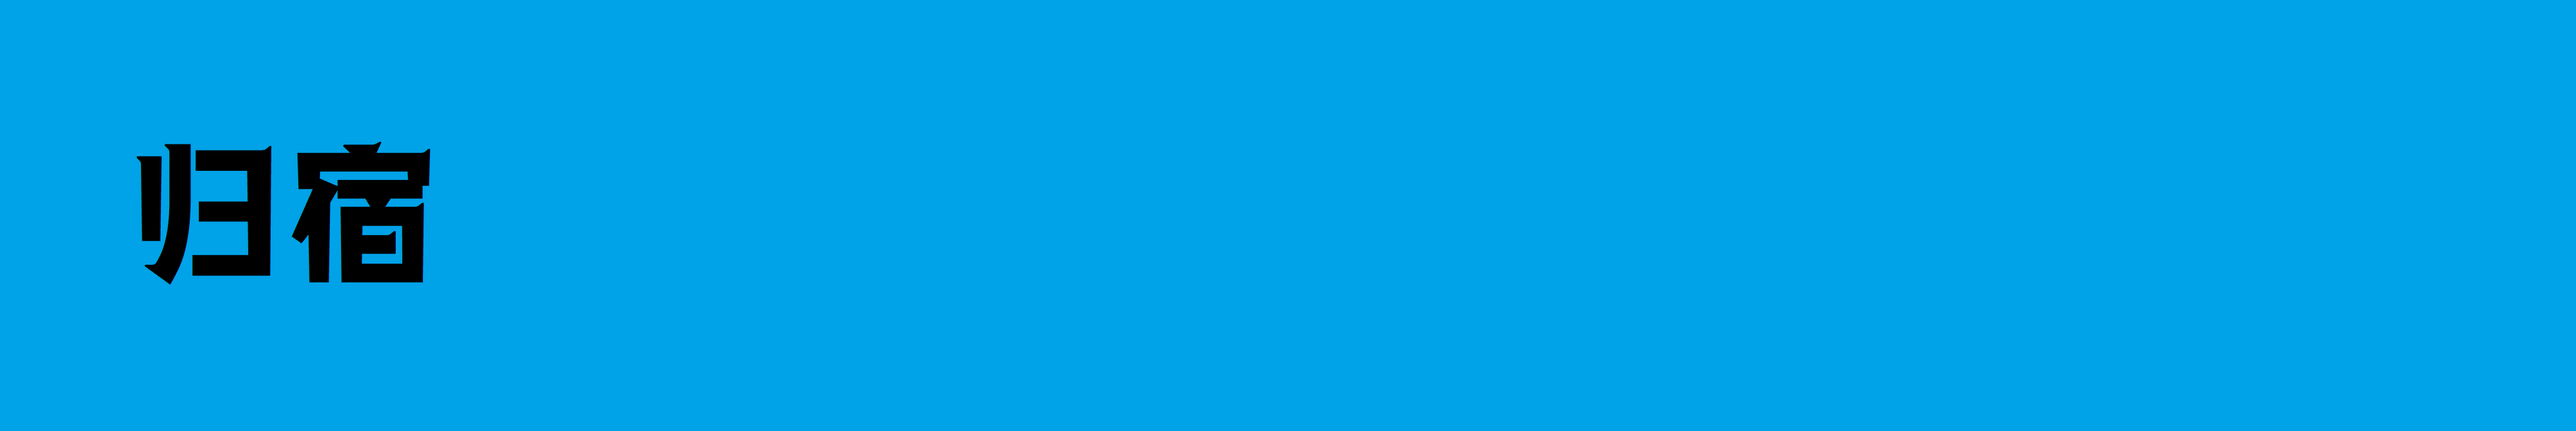
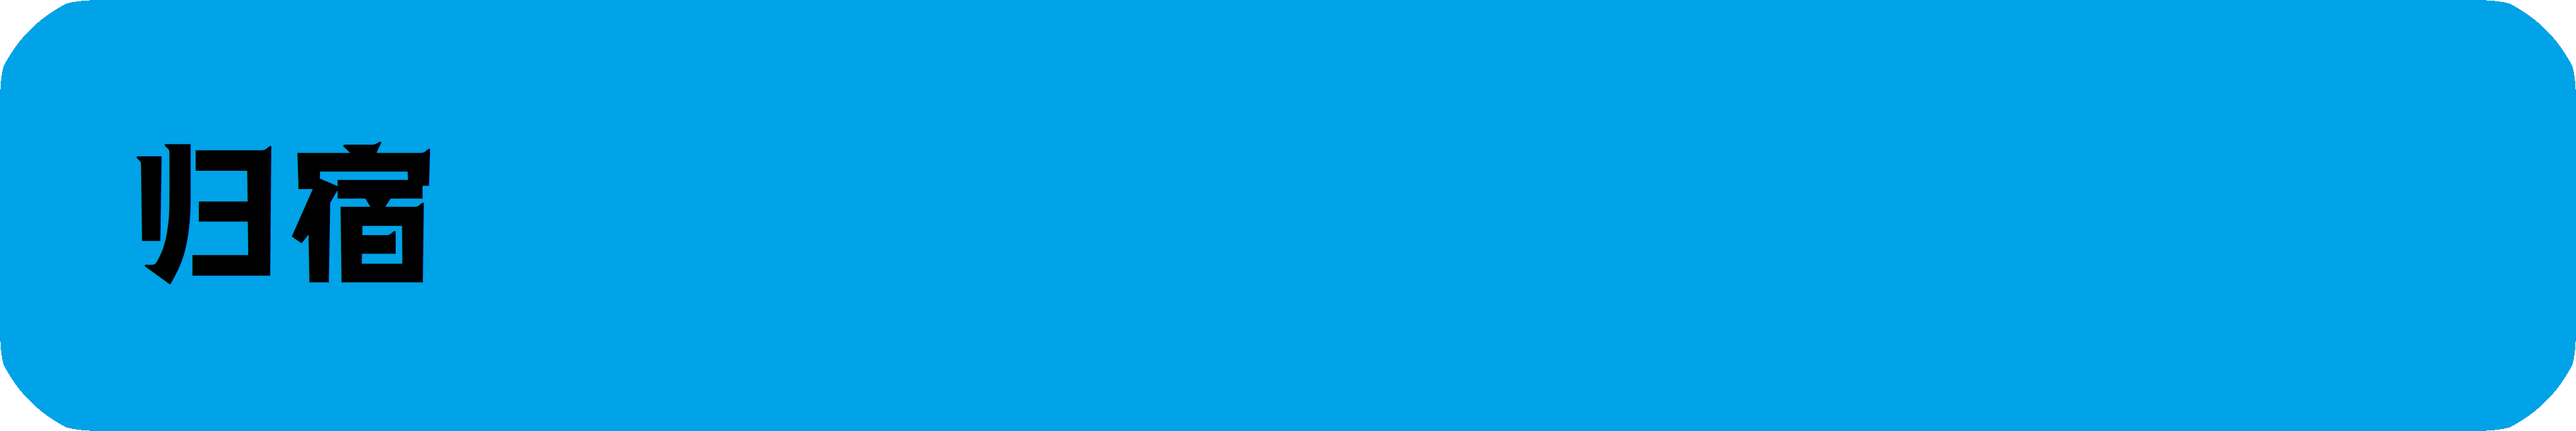
更新导航栏为最新状态

diff --git a/src/views/Register.vue b/src/views/Register.vue
@@ -20,81 +20,102 @@
         </el-form>
     </div>
 </template>
-  <script>
-    import { testToken } from '@/api/customer'
-    export default {
-      data() {
-        return {
-          form: {
-            name: '',
-            password:'',
-            phone:'',
-            verifyCode:''
-          },
-          correctCode:''
-        }
+<script>
+import { testToken } from '@/api/customer'
+import {sendMessage} from '@/api/public'
+export default {
+  data() {
+    return {
+      form: {
+        name: '',
+        password:'',
+        phone:'',
+        verifyCode:''
       },
-      methods: {
-        onSubmit() {
-          console.log('submit!');
-        },
-        submitForm(){
-            console.log('你提交了注册申请！')
-        },
-        isLegalPhone(){
-            /*
-            判断输入的手机号是否合法
-            */
-            var myreg = /^1[3|4|5|7|8|9][0-9]{9}$/;
-            if (!myreg.test(this.form.phone)) {
-                console.log('手机号格式不正确')
-                return false;
-            } 
-            else {
-                console.log('手机号格式正确')
-                return true;
-            }
-            
-        },
-        getCode(){
-          testToken().then(response => {
-            this.getMessage=response.data
-            console.log('get请求测试:',this.getMessage)
-          }).catch((error)=>{
-            this.$message({
-                message: error,
-                type: 'warning'
-              });
-            console.log('error',error)
-          })
-
-
-          return;
-            //判断是否输入了手机号
-            if(!this.isLegalPhone()){
-              this.$message({
-                message: '请输入正确的手机号',
-                type: 'warning'
-              });
-              return false;
-            }
-            //首先判断手机号是否已被注册
-            let param= {
-              prenumber:'+86',
-              phonenumber:'09876543211',
-            }
-            
-            cusomerLogin(param).then(response=>{
-                //判断是否登录成功
-                if (response.data.phoneunique){
-                }
-                else{
-                  this.$message.error('该手机号已存在!');
-                }
-            })
-
-            console.log('获取验证码')
-        }
-      }
+      correctCode:''
     }
-  </script>
+  },
+  methods: {
+    onSubmit() {
+      console.log('submit!');
+    },
+    submitForm(){
+        console.log('你提交了注册申请！')
+    },
+    isLegalPhone(){
+        /*
+        判断输入的手机号是否合法
+        */
+        var myreg = /^1[3|4|5|7|8|9][0-9]{9}$/;
+        if (!myreg.test(this.form.phone)) {
+            console.log('手机号格式不正确')
+            return false;
+        } 
+        else {
+            console.log('手机号格式正确')
+            return true;
+        }
+        
+    },
+    getCode(){
+      
+      testToken().then(response => {
+        this.getMessage=response.data
+        console.log('get请求测试:',this.getMessage)
+      }).catch((error)=>{
+        this.$message({
+            message: error,
+            type: 'warning'
+          });
+        console.log('error',error)
+      })
+      return;
+      
+
+
+      
+      //判断是否输入了手机号
+      if(!this.isLegalPhone()){
+        this.$message({
+          message: '请输入正确的手机号',
+          type: 'warning'
+        });
+        return false;
+      }
+      //首先判断手机号是否已被注册
+      let param= {
+        prenumber:'+86',
+        phonenumber:this.phone,
+      }
+      
+      /*
+      cusomerLogin(param).then(response=>{
+        //判断是否登录成功
+        if (response.data.phoneunique){
+        }
+        else{
+          this.$message.error('该手机号已存在!');
+        }
+      })
+      */
+
+      param= {
+        prenumber:'+86',
+        phonenumber:this.phone,
+        state:'0'
+      }
+
+      //手机号未被注册过，则发送验证码
+      sendMessage(param).then(response=>{
+        if(response.data.sendstate){
+          console.log('成功发送验证码')
+        }
+        else{
+          this.$message.error('发送失败，请稍后尝试重新发送');
+        }
+
+      })
+    }
+  }
+}
+</script>

diff --git a/src/components/login.vue b/src/components/login.vue
@@ -1,11 +1,11 @@
 <template>
-    <el-container>
+    <el-container style="height: 100%;">
         <el-header style="height: auto;">
             <h1  align="center" style="font-size: xx-large;margin-top: 10px;">登录</h1>
             登录“归宿”，体验专属于你的精彩世界！
         </el-header>
-        <el-form style="margin-top: 20px;margin-left: 40px; margin-right: 40px;">
-            <el-row>
+        <el-form style="margin-top: 20px;margin-left: 40px; margin-right: 40px;height: 100%;">
+            <el-row style="height: 100%;">
                 <el-form-item>
                     <el-input v-model="phonenumber" placeholder="手机号"></el-input>
                 </el-form-item>
@@ -16,6 +16,24 @@
                     show-password
                     ></el-input>
                 </el-form-item>
+                <!--验证码-->
+                <el-form-item style="height: 100%;margin-bottom: 0;">
+                    <el-col :span="11">
+                        <el-input 
+                        v-model="verifycode" 
+                        placeholder="验证码"
+                        maxlength=4
+                        >
+                        </el-input>
+                    </el-col>
+                    <el-col :span="11" style="margin-left: 30px;height: 100%;">
+                        <el-image
+                        :src="codeimg"
+                        style="width: 140px;height:50px">
+                        </el-image>
+                    </el-col>
+                    
+                </el-form-item>
                 <el-form-item style="margin-bottom: 10px;">
                     <el-col :span="11" style="margin-left: 20px;">
                         <el-checkbox label="记住我" name="type"></el-checkbox>
@@ -24,6 +42,7 @@
                         <el-link href="https://element.eleme.io" target="_blank" :underline="false">忘记密码？</el-link>
                     </el-col>
                 </el-form-item>
+                
             </el-row>
         </el-form>
     </el-container>
@@ -37,7 +56,9 @@ export default {
     data(){
         return{
             phonenumber:'',
-            password:''
+            password:'',
+            verifycode:'',
+            codeimg:''
         }
     },
     methods:{
@@ -45,6 +66,11 @@ export default {
             console.log('点击登录键')
             // this.$parent.$parent.$parent.$parent.$parent.dialogTableVisible=false;
             this.$emit("logins")
+        },
+        updateVerifyCode(){
+            /*
+            更新验证码
+            */
         }
     }
 }

diff --git a/src/components/navigate.vue b/src/components/navigate.vue
@@ -61,7 +61,7 @@
         </el-menu-item>
 
 
-        </el-divider>
+
     
         
         <el-submenu index="5" v-if="hasLogin" style="float: right;">
@@ -88,6 +88,7 @@
           width="500px"
           :show-close="false"
           class="login-dialog-box"
+          custom-class="dialogClass"
           >
           <div slot="title" class="header-title">
 
@@ -183,6 +184,8 @@ export default {
     },
     login(){
       this.dialogTableVisible=true;
+      //更新验证码
+
     },
     isLegalPhone(){
         /*
@@ -345,7 +348,13 @@ export default {
 }
 </script>
 
+
+<style>
+  .dialogClass{ border-radius: 20px; }
+</style>
+
 <style scoped>
+
 .el-divider--vertical{
   display:inline-block;
   width:1px;
@@ -354,6 +363,7 @@ export default {
   vertical-align:middle;
   position:relative;
 }
+
 
 
 .login-dialog-box >>> .el-dialog .el-dialog__header{

diff --git a/src/utils/request.js b/src/utils/request.js
@@ -49,12 +49,7 @@ service.interceptors.response.use(
     console.log('res',response)
     // if the custom code is not 200, it is judged as an error.
     if (res.errorCode != 200) {
-      Message({
-        message: res.message || 'Error',
-        type: 'error',
-        duration: 5 * 1000
-      })
-
+      
       //判断token是否失效
       if(res.errorCode==400){
         //清除当前token信息
@@ -62,7 +57,14 @@ service.interceptors.response.use(
         //打开登录界面
         startLogin()
         //前往首页
-        this.$router.replace('/');
+        //this.$router.replace('/');
+
+        Message({
+          message: '您尚未登录，请先登录',
+          type: 'error',
+          duration: 5 * 1000
+        })
+  
   
         return Promise.reject(new Error('您尚未登录'||'Error'))
       }

diff --git a/src/api/public.js b/src/api/public.js
@@ -1,0 +1,17 @@
+/*
+一些公用的api库
+*/
+import request from '@/utils/request'
+
+export function sendMessage(data) {
+    /*
+    向指定手机号发送验证码
+    */
+    let param = new URLSearchParams(data)
+
+    return request({
+        url: '/phone/sendmessage',
+        method: 'post',
+        data:param
+    })
+}

diff --git a/src/router/index.js b/src/router/index.js
@@ -39,7 +39,12 @@ router.beforeEach((to, from, next) => {
     let token = localStorage.getItem('Authorization');
  
     if (token === null || token === '') {
-      next('/login');
+      //打开登录界面
+      startLogin();
+      //前往首页
+      //this.$router.replace('/');
+
+      
     } else {
       next();
     }

diff --git a/src/api/host.js b/src/api/host.js
@@ -1,0 +1,5 @@
+/*
+和房东有关的api接口
+*/
+
+import request from '@/utils/request'
